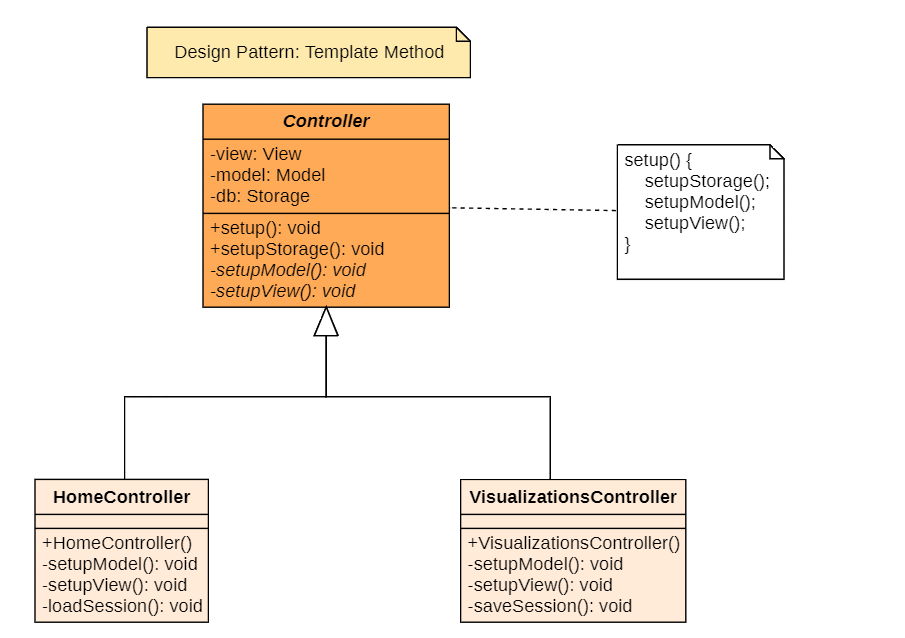
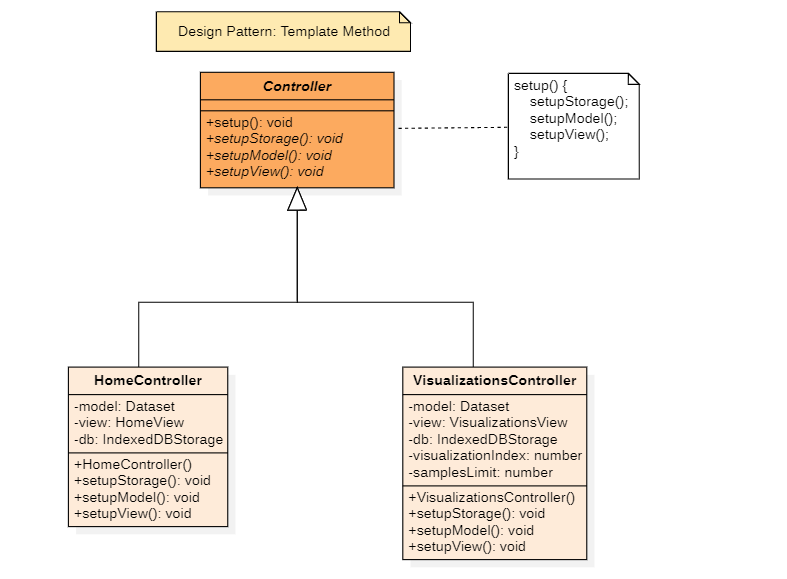
Fix diagrammi delle classi

diff --git a/src/documenti/esterni/SA/contenuti/architettura.tex b/src/documenti/esterni/SA/contenuti/architettura.tex
@@ -36,7 +36,7 @@ Nel dettaglio la funzione delle varie componenti del model è:
 
 \subsection{View}
 \begin{figure}[H]
-    \includegraphics[width=1.0\textwidth]{vista.png}
+    \includegraphics[width=1.0\textwidth]{View.png}
     \caption{Diagramma delle classi riguardanti la View}
 \end{figure}
 Il diagramma delle classi della vista è diviso principalmente in due parti: la classe \texttt{HomeView} e \texttt{VisualizationView} che si occupano di creare tutti gli elementi che compongono le rispettive viste e implementano un'interfaccia comune \texttt{View}.
@@ -59,8 +59,8 @@ Possiamo notare la presenza di una classe astratta chiamata \textbf{\texttt{Cont
 La scelta di usare due controller nell'applicazione è stata fatta per riuscire a gestire le pagine, con differenti funzionalità, in modo semplice e modulare permettendo una più semplice estendibilità e manutenibilità.\\
 \textbf{\texttt{HomeController}} e \textbf{\texttt{VisualizationsController}} sono gli oggetti istanziabili con superclasse \textbf{\texttt{Controller}} e sono utilizzati nel seguente modo:
 \begin{itemize}
-	\item \textbf{\texttt{HomeController}}: Ha la funzione di gestire l'interazione Model-View nella scheda iniziale. Caratteristica di questa classe è la presenza del metodo privato \texttt{loadSession()} che permette il caricamento di un dataset oppure di una sessione precedentemente salvata.
-	\item \textbf{\texttt{VisualizationsController}}: Ha la funzione di gestire l'interazione Model-View nella scheda in cui vengono visualizzati i grafici con i vari filtri. La caratteristica di questa classe è la presenza del metodo privato \texttt{saveSession()} che permette di salvare la sessione in corso con il grafico visualizzato e i filtri applicati.
+	\item \textbf{\texttt{HomeController}}: Ha la funzione di gestire l'interazione Model-View nella scheda iniziale;
+	\item \textbf{\texttt{VisualizationsController}}: Ha la funzione di gestire l'interazione Model-View nella scheda in cui vengono visualizzati i grafici con i vari filtri.
 \end{itemize}
 Entrambe le classi precedentemente citate hanno il metodo comune \texttt{setup()} che permette l'inizializzazione della classe andando a chiamre altri tre metodi: \texttt{setupStorage()} che genera l'istanza della classe \texttt{IndexedDB}, \texttt{setupModel()} che istanzia il Modello e \texttt{setupView()} che crea la View. Completato il processo di inizializzazione l'applicazione sarà pronta a rispondere alle interazioni con l'utente.
 
